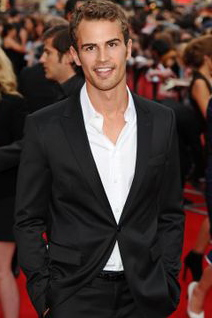
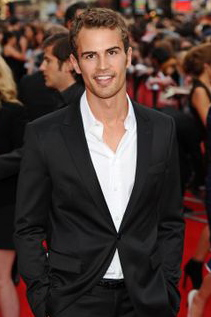
New photos, and resized the main image

diff --git a/Clarity/Content/20150910Site.css b/Clarity/Content/20150910Site.css
@@ -1,0 +1,61 @@
+@import url(https://fonts.googleapis.com/css?family=Montserrat);
+body{margin:0 auto;font-family:"Montserrat",sans-serif;font-size:12pt;background:#E4E4E4}
+a{text-decoration:none}
+.body-content{padding-left:15px;padding-right:15px}
+input,select,textarea{max-width:280px}
+.wrapper{transform:translate(-50%,-50%);box-shadow:0 0 6px 6px rgba(0,0,0,0.1)}
+.wrapper,.view{position:absolute;top:50%;left:50%;min-width:200px;padding:40px;background:#fff}
+#black-out,.wrapper-bg{position:absolute;top:0;left:0;width:100%;height:100%}
+#black-out{background:#000}
+.wrapper-bg{background:linear-gradient(limegreen,transparent),linear-gradient(90deg,skyblue,transparent),linear-gradient(-90deg,coral,transparent);background-blend-mode:screen}
+.color{width:75px;height:25px;display:inline-block}
+.red{background:#c0392b}
+.btn.red:hover{background:#AC2D20}
+.orange{background:#e67e22}
+.yellow{background:#f1c40f}
+.blue{background:#2980b9}
+.btn.blue:hover{background:#2070A5}
+.green{background:#26A65B}
+.btn.green:hover{background:#249A55}
+.purple{background:#8e44ad}
+table{width:100%}
+td{padding:10px}
+td:first-child{min-width:30px}
+input[type="number"]{text-align:center;max-width:80px}
+.t-center{text-align:center}
+.key{padding:7px 10px;border:1px solid #9D9D9D;border-radius:5px;box-shadow:0 2px 2px rgba(0,0,0,0.2);display:inline-block}
+.popup{visibility:hidden;z-index:1000;box-shadow:0 0 6px 6px rgba(0,0,0,0.1);transform:translate(-30%,-50%)}
+.show{visibility:visible;transform:translate(-50%,-50%);transition:all .3s cubic-bezier(0.25,0.5,0.5,0.9)}
+.show~.overlay{visibility:visible;opacity:1;transition:opacity .3s}
+.overlay{position:fixed;top:0;left:0;width:100%;height:100%;background:rgba(0,0,0,0.3);visibility:hidden;opacity:0;z-index:900}
+.btn{display:block;padding:15px;text-align:center;color:#fff;text-decoration:none;margin-top:10px}
+#trial-body{position:absolute;top:0;left:0;height:100%;width:100%;background:#fff;text-align:center}
+#trial-stats{position:absolute;top:150px;right:150px;background:#fff}
+#main-image{height:80%;width:auto;position:absolute;top:50%;left:50%;transform:translate(-50%,-50%)}
+#top,#bottom,#left,#right{background:#2c3e50;position:fixed}
+#left,#right{top:0;bottom:0;width:75px}
+#left{left:0}
+#right{right:0}
+#top,#bottom{left:0;right:0;height:75px}
+#top{top:0}
+#bottom{bottom:0}
+.loading{position:fixed;z-index:999;height:2em;width:2em;margin:auto;top:0;left:0;bottom:0;right:0}
+.loading:before{content:'';display:block;position:fixed;top:0;left:0;width:100%;height:100%;background-color:rgba(0,0,0,0.3);transition:all .3s}
+.loading:not(:required){font:0/0 a;color:transparent;text-shadow:none;background-color:transparent;border:0}
+.loading:not(:required):after{content:'';display:block;font-size:10px;width:1em;height:1em;margin-top:-.5em;-webkit-animation:spinner 1500ms infinite linear;-moz-animation:spinner 1500ms infinite linear;-o-animation:spinner 1500ms infinite linear;animation:spinner 1500ms infinite linear;border-radius:.5em;-webkit-box-shadow:rgba(0,0,0,0.75) 1.5em 0 0 0,rgba(0,0,0,0.75) 1.1em 1.1em 0 0,rgba(0,0,0,0.75) 0 1.5em 0 0,rgba(0,0,0,0.75) -1.1em 1.1em 0 0,rgba(0,0,0,0.5) -1.5em 0 0 0,rgba(0,0,0,0.5) -1.1em -1.1em 0 0,rgba(0,0,0,0.75) 0 -1.5em 0 0,rgba(0,0,0,0.75) 1.1em -1.1em 0 0;box-shadow:rgba(0,0,0,0.75) 1.5em 0 0 0,rgba(0,0,0,0.75) 1.1em 1.1em 0 0,rgba(0,0,0,0.75) 0 1.5em 0 0,rgba(0,0,0,0.75) -1.1em 1.1em 0 0,rgba(0,0,0,0.75) -1.5em 0 0 0,rgba(0,0,0,0.75) -1.1em -1.1em 0 0,rgba(0,0,0,0.75) 0 -1.5em 0 0,rgba(0,0,0,0.75) 1.1em -1.1em 0 0}
+@-webkit-keyframes spinner {
+0%{-webkit-transform:rotate(0deg);-moz-transform:rotate(0deg);-ms-transform:rotate(0deg);-o-transform:rotate(0deg);transform:rotate(0deg)}
+100%{-webkit-transform:rotate(360deg);-moz-transform:rotate(360deg);-ms-transform:rotate(360deg);-o-transform:rotate(360deg);transform:rotate(360deg)}
+}
+@-moz-keyframes spinner {
+0%{-webkit-transform:rotate(0deg);-moz-transform:rotate(0deg);-ms-transform:rotate(0deg);-o-transform:rotate(0deg);transform:rotate(0deg)}
+100%{-webkit-transform:rotate(360deg);-moz-transform:rotate(360deg);-ms-transform:rotate(360deg);-o-transform:rotate(360deg);transform:rotate(360deg)}
+}
+@-o-keyframes spinner {
+0%{-webkit-transform:rotate(0deg);-moz-transform:rotate(0deg);-ms-transform:rotate(0deg);-o-transform:rotate(0deg);transform:rotate(0deg)}
+100%{-webkit-transform:rotate(360deg);-moz-transform:rotate(360deg);-ms-transform:rotate(360deg);-o-transform:rotate(360deg);transform:rotate(360deg)}
+}
+@keyframes spinner {
+0%{-webkit-transform:rotate(0deg);-moz-transform:rotate(0deg);-ms-transform:rotate(0deg);-o-transform:rotate(0deg);transform:rotate(0deg)}
+100%{-webkit-transform:rotate(360deg);-moz-transform:rotate(360deg);-ms-transform:rotate(360deg);-o-transform:rotate(360deg);transform:rotate(360deg)}
+}
